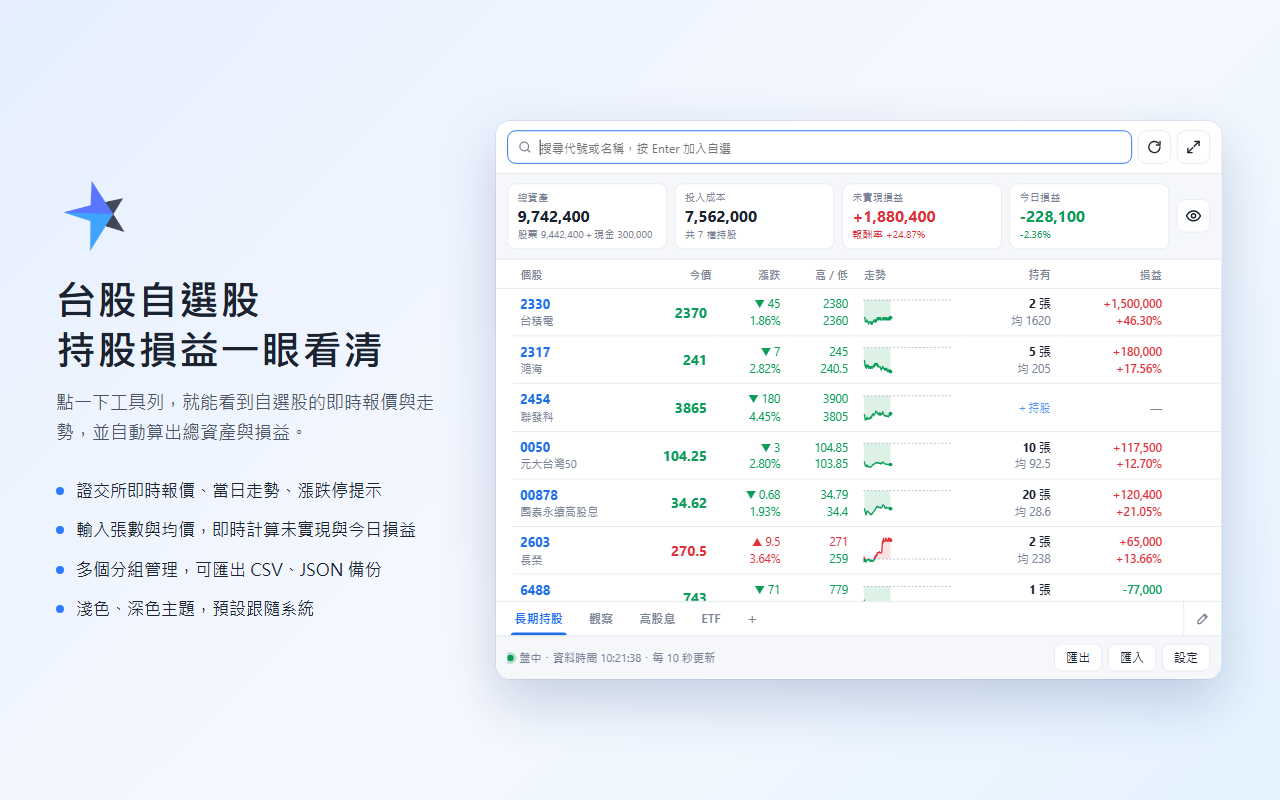
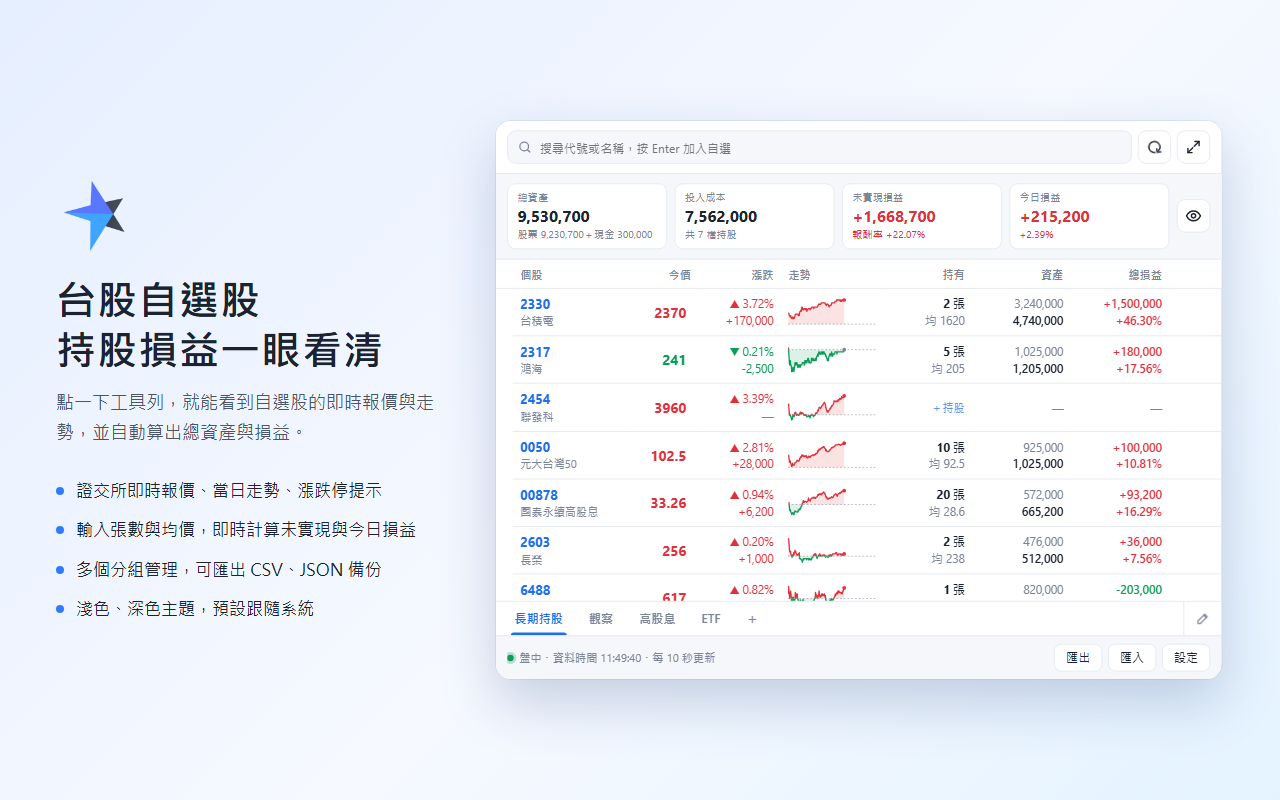
1.2.1：調整個股表格欄位
- 損益標頭改為「總損益」
- 漲跌欄上方為今日漲跌幅，下方為今日損益金額
- 移除「高／低」欄
- 持有欄後新增「資產」欄：上方投入成本，下方股票現值
- 大畫面模式移除與上述重複的市值、今日損益欄
- 更新說明文件截圖與商店截圖

diff --git a/popup.js b/popup.js
@@ -291,13 +291,20 @@ function rowHTML({ item, quote: q, calc }) {
         : '';
   const flash = state.flashes.has(item.code) ? `flash-${state.flashes.get(item.code)}` : '';
   const arrow = dir === 'up' ? '▲' : dir === 'down' ? '▼' : '';
-  const hl = (v) => (q && v != null && q.prevClose != null ? pf.trend(v - q.prevClose) : '');
   const pnlDir = calc.pnl == null ? '' : pf.trend(Math.round(calc.pnl));
   const dayDir = calc.dayPnl == null ? '' : pf.trend(Math.round(calc.dayPnl));
 
+  // 漲跌：上方今日漲跌幅，下方今日損益（沒有持股時顯示 —）
+  const chg = `${q?.traded ? `${arrow} ${pf.fmtPct(Math.abs(q.changePct), false)}` : '—'}<br>${
+    calc.dayPnl != null ? `<span class="${dayDir}">${money(pf.fmtSigned(calc.dayPnl))}</span>` : '<span class="muted">—</span>'
+  }`;
   const hold = calc.held
     ? `<b>${money(pf.fmtLots(item.lots))}</b> 張<br><span class="muted">均 ${money(pf.fmtPrice(Number(item.cost) || 0))}</span>`
     : '<span class="add-hold">＋持股</span>';
+  // 資產：上方投入成本，下方股票現值
+  const asset = calc.held
+    ? `<span class="muted">${money(pf.fmtInt(calc.costTotal))}</span><br><b>${calc.mv != null ? money(pf.fmtInt(calc.mv)) : '—'}</b>`
+    : '<span class="muted">—</span>';
   const pnl = calc.held
     ? `<span class="${pnlDir}">${money(pf.fmtSigned(calc.pnl))}<br>${pf.fmtPct(calc.pnlPct)}</span>`
     : '<span class="muted">—</span>';
@@ -309,13 +316,11 @@ function rowHTML({ item, quote: q, calc }) {
       <div class="name">${esc(displayName(item)) || '&nbsp;'}</div>
     </td>
     <td class="num price ${dir} ${limit} ${flash}"><span>${q ? pf.fmtPrice(q.price) : '…'}</span></td>
-    <td class="num chg ${dir}">${q?.traded ? `${arrow} ${pf.fmtPrice(Math.abs(q.change))}<br>${pf.fmtPct(Math.abs(q.changePct), false)}` : '—'}</td>
-    <td class="num hl"><span class="${hl(q?.high)}">${pf.fmtPrice(q?.high)}</span><span class="${hl(q?.low)}">${pf.fmtPrice(q?.low)}</span></td>
+    <td class="num chg ${dir}" title="上：今日漲跌幅　下：今日損益">${chg}</td>
     <td class="spark">${sparkline(item.code, state.charts.get(item.code), q)}</td>
     <td class="num wide">${q?.volume != null ? pf.fmtInt(q.volume) : '—'}</td>
     <td class="num hold" data-act="edit" title="編輯持股">${hold}</td>
-    <td class="num wide">${calc.mv != null ? money(pf.fmtInt(calc.mv)) : '—'}</td>
-    <td class="num wide daypnl ${dayDir}">${calc.dayPnl != null ? money(pf.fmtSigned(calc.dayPnl)) : '—'}</td>
+    <td class="num asset" data-act="edit" title="上：投入成本　下：股票現值">${asset}</td>
     <td class="num pnl" data-act="edit" title="編輯持股">${pnl}</td>
     <td class="num wide muted">${esc(q?.time || '—')}</td>
     <td class="act"><button data-act="edit" title="編輯">✎</button><button data-act="del" title="移除">✕</button></td>

diff --git a/popup.css b/popup.css
@@ -226,8 +226,8 @@ body.tab-mode .stock .name { max-width: 200px; }
 .down { color: var(--down); }
 .flat { color: var(--text); }
 .muted { color: var(--muted); }
-.chg, .hl, .hold, .pnl, .daypnl { font-size: 12.5px; line-height: 1.45; }
-.hl span { display: block; }
+.chg, .hold, .asset, .pnl { font-size: 12.5px; line-height: 1.45; }
+.chg { min-width: 72px; }
 
 .spark-col { width: 104px; }
 .spark { width: 104px; padding-top: 4px !important; padding-bottom: 4px !important; }
@@ -244,7 +244,9 @@ body.tab-mode .stock .name { max-width: 200px; }
 .spark .dot-flat { fill: var(--muted); }
 
 .hold { min-width: 76px; }
-.hold:hover, .pnl:hover { text-decoration: underline dotted var(--muted); text-underline-offset: 3px; }
+.asset { min-width: 86px; }
+.asset b { font-weight: 600; }
+.hold:hover, .asset:hover, .pnl:hover { text-decoration: underline dotted var(--muted); text-underline-offset: 3px; }
 .add-hold { color: var(--accent); font-size: 12px; opacity: .75; }
 tr:hover .add-hold { opacity: 1; }
 .pnl { min-width: 86px; font-weight: 600; }

diff --git a/popup.html b/popup.html
@@ -60,14 +60,12 @@
             <th class="handle-col"></th>
             <th class="stock-col">個股</th>
             <th class="num">今價</th>
-            <th class="num">漲跌</th>
-            <th class="num">高 / 低</th>
+            <th class="num" title="上：今日漲跌幅　下：今日損益">漲跌</th>
             <th class="spark-col">走勢</th>
             <th class="num wide">成交量(張)</th>
             <th class="num">持有</th>
-            <th class="num wide">市值</th>
-            <th class="num wide">今日損益</th>
-            <th class="num">損益</th>
+            <th class="num" title="上：投入成本　下：股票現值">資產</th>
+            <th class="num">總損益</th>
             <th class="num wide">時間</th>
             <th class="act-col"></th>
           </tr>

diff --git a/README.md b/README.md
@@ -6,7 +6,7 @@
 
 ## 功能
 
-- **即時行情**：證交所即時報價、漲跌、最高／最低、當日走勢圖，漲停跌停會反白
+- **即時行情**：證交所即時報價、漲跌幅、當日走勢圖，漲停跌停會反白
 - **持股損益**：輸入張數（零股可用小數）與均價，即時計算總資產、投入成本、未實現損益、報酬率、今日損益
 - **交易成本估算**：可選擇扣除賣出手續費（可設折扣）與證交稅
 - **多個分組**：每組有自己的清單、持股與現金部位
@@ -62,6 +62,13 @@
 
 第一次打開時，第 1 組會先放好 2330、2454、0050 當範例，可以直接刪除。
 
+| 欄位 | 上方 | 下方 |
+| --- | --- | --- |
+| 漲跌 | 今日漲跌幅 | 今日損益（有持股才顯示） |
+| 持有 | 張數 | 平均成本 |
+| 資產 | 投入成本 | 股票現值 |
+| 總損益 | 未實現損益 | 報酬率 |
+
 ![畫面說明](docs/images/use-1-overview.png)
 
 | 編號 | 功能 |
@@ -71,7 +78,7 @@
 | ③ | 總覽：總資產、投入成本、未實現損益、今日損益（只計算目前分組） |
 | ④ | 隱藏所有金額，方便截圖或分享畫面 |
 | ⑤ | 點個股開啟 Yahoo 奇摩股市個股頁 |
-| ⑥ | 點「持有」或「損益」輸入張數與均價 |
+| ⑥ | 點「持有」「資產」或「總損益」輸入張數與均價 |
 | ⑦ | 分組分頁：點一下切換、雙擊改名、＋ 新增 |
 | ⑧ | 匯出、匯入、設定 |
 
@@ -111,7 +118,7 @@
 
 ### 大畫面模式
 
-按右上角的 ⤢ 會在新分頁開啟，多顯示成交量、市值、今日損益與資料時間。
+按右上角的 ⤢ 會在新分頁開啟，多顯示成交量與資料時間。
 
 ![大畫面深色模式](docs/images/use-5-dark.png)
 
